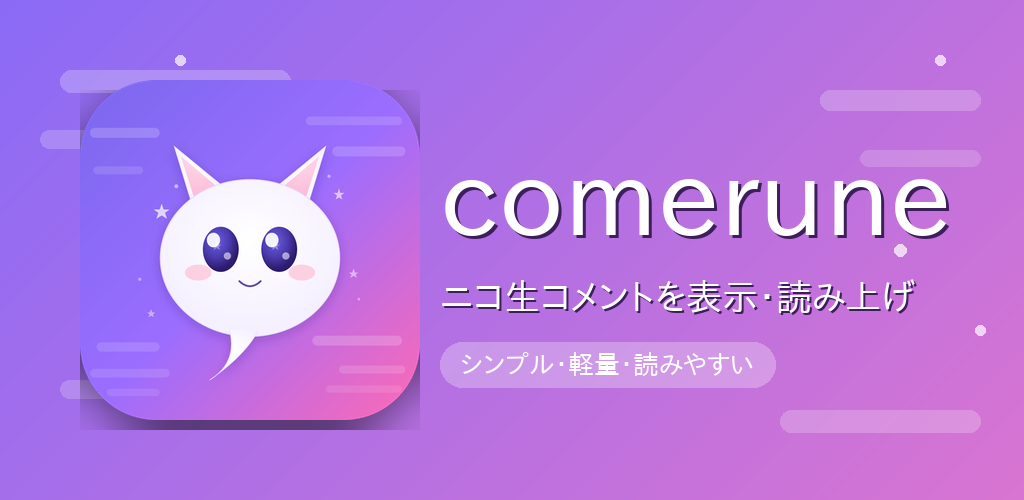
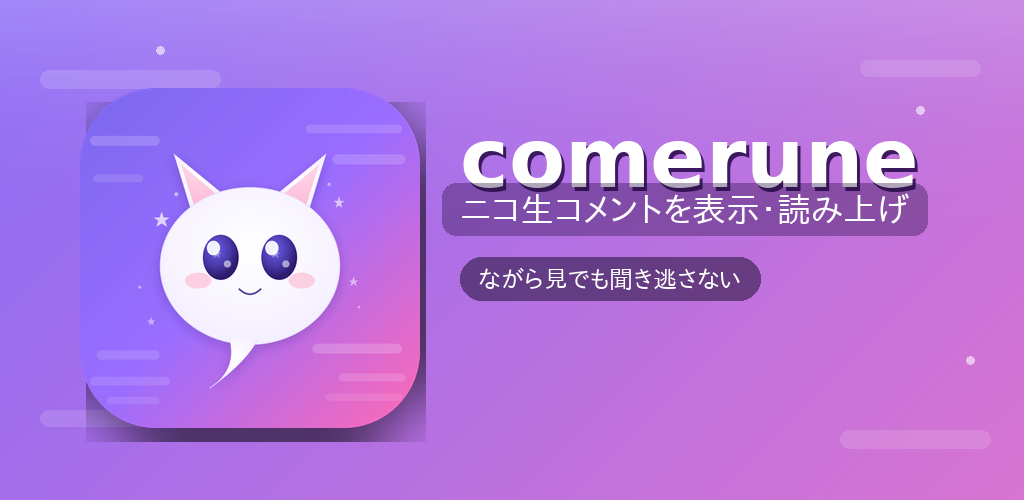
chore(play-store): refine feature graphic per designer review
- Latinタイトルを DejaVu Sans Bold に変更し字形を安定化
- 右側 100px をセーフゾーンとして確保（各サーフェスのトリミング対策）
- サブコピーとキャッチに半透明の暗色プレートを敷きコントラストを向上
- 背景装飾は数を減らし低彩度に
- キャッチを差別化メッセージへ変更（3rdパーティ名を含めない汎用表現）

https://claude.ai/code/session_01Lvd1uykLmiU1AKgUGvPr9s

diff --git a/scripts/generate-play-store-feature-graphic.py b/scripts/generate-play-store-feature-graphic.py
@@ -2,6 +2,12 @@
 """Generate the Google Play Store Feature Graphic (1024x500, 24-bit PNG, no alpha).
 
 Output: android/fastlane/metadata/android/ja-JP/images/featureGraphic.png
+
+Designer review対応版:
+- Latin タイトルは DejaVu Sans Bold で字形を安定化
+- 右側 100px をセーフゾーンとして空け、Play ストア各サーフェスでのトリミングに耐える
+- サブコピー / キャッチに半透明黒プレートを敷きコントラストを確保
+- 背景の装飾は数を減らし、画面端寄せ・低彩度に
 """
 from __future__ import annotations
 
@@ -26,12 +32,24 @@ JP_FONT_CANDIDATES = [
     "/usr/share/fonts/truetype/fonts-japanese-gothic.ttf",
 ]
 
+LATIN_FONT_CANDIDATES = [
+    "/usr/share/fonts/truetype/dejavu/DejaVuSans-Bold.ttf",
+    "/usr/share/fonts/truetype/liberation/LiberationSans-Bold.ttf",
+]
 
-def load_font(size: int) -> ImageFont.FreeTypeFont:
+
+def load_jp_font(size: int) -> ImageFont.FreeTypeFont:
     for path in JP_FONT_CANDIDATES:
         if os.path.exists(path):
             return ImageFont.truetype(path, size=size)
     return ImageFont.load_default()
+
+
+def load_latin_font(size: int) -> ImageFont.FreeTypeFont:
+    for path in LATIN_FONT_CANDIDATES:
+        if os.path.exists(path):
+            return ImageFont.truetype(path, size=size)
+    return load_jp_font(size)
 
 
 def make_diagonal_gradient(size: tuple[int, int], c1: tuple[int, int, int], c2: tuple[int, int, int]) -> Image.Image:
@@ -49,24 +67,32 @@ def make_diagonal_gradient(size: tuple[int, int], c1: tuple[int, int, int], c2: 
     return base
 
 
+def add_top_highlight(img: Image.Image) -> None:
+    overlay = Image.new("RGBA", img.size, (0, 0, 0, 0))
+    pixels = overlay.load()
+    for y in range(img.size[1] // 2):
+        a = int(50 * (1 - y / (img.size[1] / 2)) ** 2)
+        for x in range(img.size[0]):
+            pixels[x, y] = (255, 255, 255, a)
+    img.alpha_composite(overlay)
+
+
 def add_decorative_bars(img: Image.Image) -> None:
     overlay = Image.new("RGBA", img.size, (0, 0, 0, 0))
     draw = ImageDraw.Draw(overlay)
 
     bars = [
-        (60, 70, 230, 22, 60),
-        (40, 130, 150, 18, 50),
-        (820, 90, 160, 20, 55),
-        (860, 150, 120, 16, 45),
-        (60, 380, 180, 18, 50),
-        (780, 410, 200, 22, 55),
+        (40, 70, 180, 18, 38),
+        (40, 410, 140, 16, 34),
+        (860, 60, 120, 16, 32),
+        (840, 430, 150, 18, 34),
     ]
     for x, y, w, h, alpha in bars:
         draw.rounded_rectangle((x, y, x + w, y + h), radius=h // 2, fill=(255, 255, 255, alpha))
 
-    stars = [(120, 220, 6), (180, 60, 5), (940, 60, 5), (900, 250, 6), (90, 320, 4), (980, 330, 5)]
+    stars = [(160, 50, 4), (920, 110, 4), (90, 360, 3), (970, 360, 4)]
     for cx, cy, r in stars:
-        draw.ellipse((cx - r, cy - r, cx + r, cy + r), fill=(255, 255, 255, 180))
+        draw.ellipse((cx - r, cy - r, cx + r, cy + r), fill=(255, 255, 255, 150))
 
     img.alpha_composite(overlay)
 
@@ -94,55 +120,78 @@ def drop_shadow(im: Image.Image, offset: tuple[int, int] = (0, 8), blur: int = 1
     return canvas
 
 
+def draw_plate(bg: Image.Image, box: tuple[int, int, int, int], radius: int, fill: tuple[int, int, int, int]) -> None:
+    plate = Image.new("RGBA", bg.size, (0, 0, 0, 0))
+    ImageDraw.Draw(plate).rounded_rectangle(box, radius=radius, fill=fill)
+    bg.alpha_composite(plate)
+
+
 def main() -> int:
     if not ICON_PATH.exists():
         print(f"icon not found: {ICON_PATH}", file=sys.stderr)
         return 1
 
     bg = make_diagonal_gradient((W, H), COLOR_TOP_LEFT, COLOR_BOTTOM_RIGHT).convert("RGBA")
+    add_top_highlight(bg)
     add_decorative_bars(bg)
 
     icon = Image.open(ICON_PATH).convert("RGBA")
     icon_size = 340
     icon = icon.resize((icon_size, icon_size), Image.LANCZOS)
     icon = round_corners(icon, radius=int(icon_size * 0.22))
-    icon_with_shadow = drop_shadow(icon, offset=(0, 10), blur=18, opacity=120)
+    icon_with_shadow = drop_shadow(icon, offset=(6, 14), blur=22, opacity=140)
 
-    icon_x = 80 - 36
+    icon_x = 80 - 44
     icon_y = (H - icon_size) // 2 - 36
     bg.alpha_composite(icon_with_shadow, (icon_x, icon_y))
 
     draw = ImageDraw.Draw(bg)
 
+    safe_right = 100
+    text_left = 460
+
     title = "comerune"
-    title_font = load_font(108)
-    tx = 440
-    ty = 140
-    shadow_offset = 3
-    draw.text((tx + shadow_offset, ty + shadow_offset), title, font=title_font, fill=(60, 30, 90, 140))
+    title_font = load_latin_font(110)
+    tbbox = draw.textbbox((0, 0), title, font=title_font)
+    title_w = tbbox[2] - tbbox[0]
+    max_title_w = W - text_left - safe_right
+    if title_w > max_title_w:
+        title_font = load_latin_font(int(110 * max_title_w / title_w))
+        tbbox = draw.textbbox((0, 0), title, font=title_font)
+    tx = text_left
+    ty = 110
+    draw.text((tx + 3, ty + 4), title, font=title_font, fill=(60, 25, 95, 160))
     draw.text((tx, ty), title, font=title_font, fill=(255, 255, 255, 255))
 
-    sub_font = load_font(36)
-    subtitle_main = "ニコ生コメントを表示・読み上げ"
-    sy = ty + 138
-    draw.text((tx + 2, sy + 2), subtitle_main, font=sub_font, fill=(60, 30, 90, 140))
-    draw.text((tx, sy), subtitle_main, font=sub_font, fill=(255, 255, 255, 255))
+    sub_font = load_jp_font(34)
+    subtitle = "ニコ生コメントを表示・読み上げ"
+    sbbox = draw.textbbox((0, 0), subtitle, font=sub_font)
+    sub_w = sbbox[2] - sbbox[0]
+    sub_h = sbbox[3] - sbbox[1]
+    sx = tx
+    sy = ty + (tbbox[3] - tbbox[1]) + 36
+    plate_pad_x, plate_pad_y = 18, 10
+    plate_box = (
+        sx - plate_pad_x,
+        sy - plate_pad_y,
+        sx + sub_w + plate_pad_x,
+        sy + sub_h + plate_pad_y,
+    )
+    draw_plate(bg, plate_box, radius=14, fill=(40, 15, 70, 95))
+    draw.text((sx, sy - sbbox[1]), subtitle, font=sub_font, fill=(255, 255, 255, 255))
 
-    tag_font = load_font(26)
-    tag = "シンプル・軽量・読みやすい"
-    bbox = draw.textbbox((0, 0), tag, font=tag_font)
-    tw = bbox[2] - bbox[0]
-    th = bbox[3] - bbox[1]
-    pad_x, pad_y = 20, 10
+    tag_font = load_jp_font(24)
+    tag = "ながら見でも聞き逃さない"
+    tbbox2 = draw.textbbox((0, 0), tag, font=tag_font)
+    tw = tbbox2[2] - tbbox2[0]
+    th = tbbox2[3] - tbbox2[1]
+    pad_x, pad_y = 18, 10
     bx0 = tx
-    by0 = sy + 64
+    by0 = plate_box[3] + 22
     bx1 = bx0 + tw + pad_x * 2
     by1 = by0 + th + pad_y * 2
-    pill = Image.new("RGBA", bg.size, (0, 0, 0, 0))
-    pdraw = ImageDraw.Draw(pill)
-    pdraw.rounded_rectangle((bx0, by0, bx1, by1), radius=(by1 - by0) // 2, fill=(255, 255, 255, 70))
-    bg.alpha_composite(pill)
-    draw.text((bx0 + pad_x, by0 + pad_y - bbox[1]), tag, font=tag_font, fill=(255, 255, 255, 255))
+    draw_plate(bg, (bx0, by0, bx1, by1), radius=(by1 - by0) // 2, fill=(20, 10, 40, 130))
+    draw.text((bx0 + pad_x, by0 + pad_y - tbbox2[1]), tag, font=tag_font, fill=(255, 255, 255, 255))
 
     final = bg.convert("RGB")
     OUT_PATH.parent.mkdir(parents=True, exist_ok=True)
